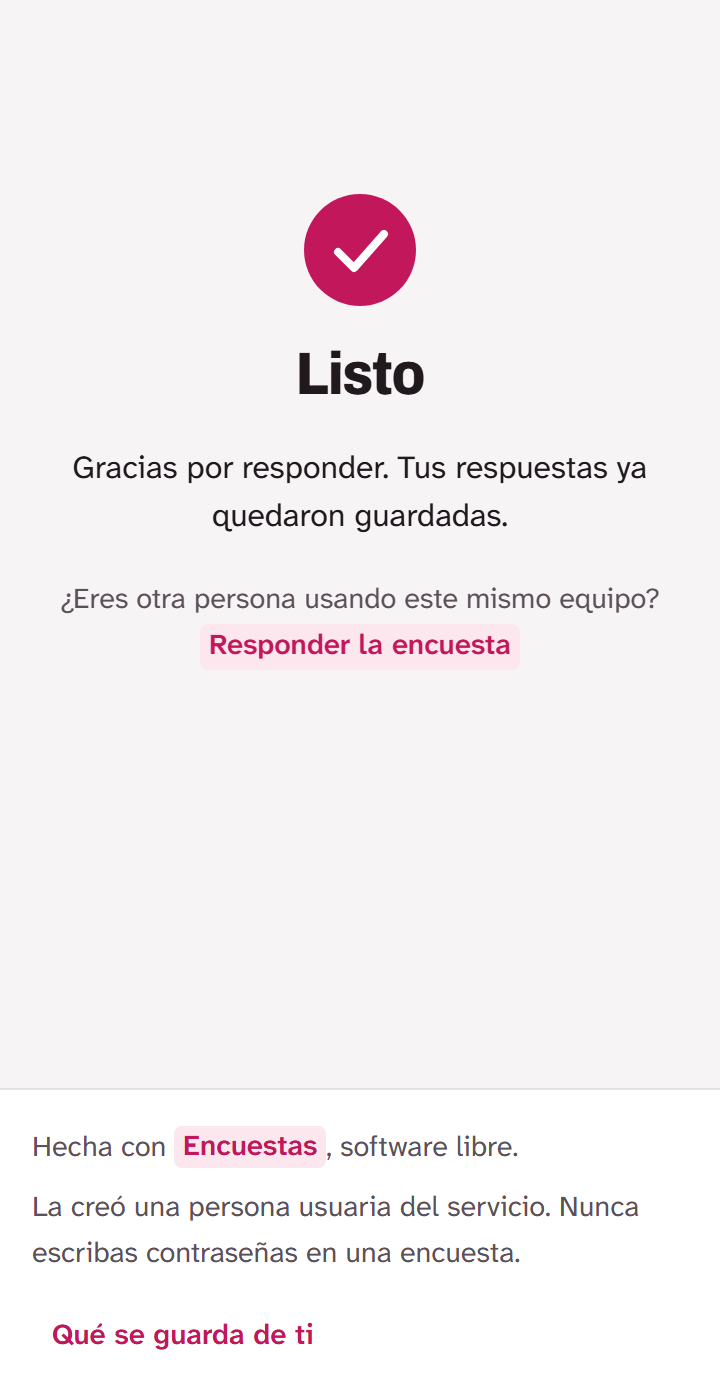
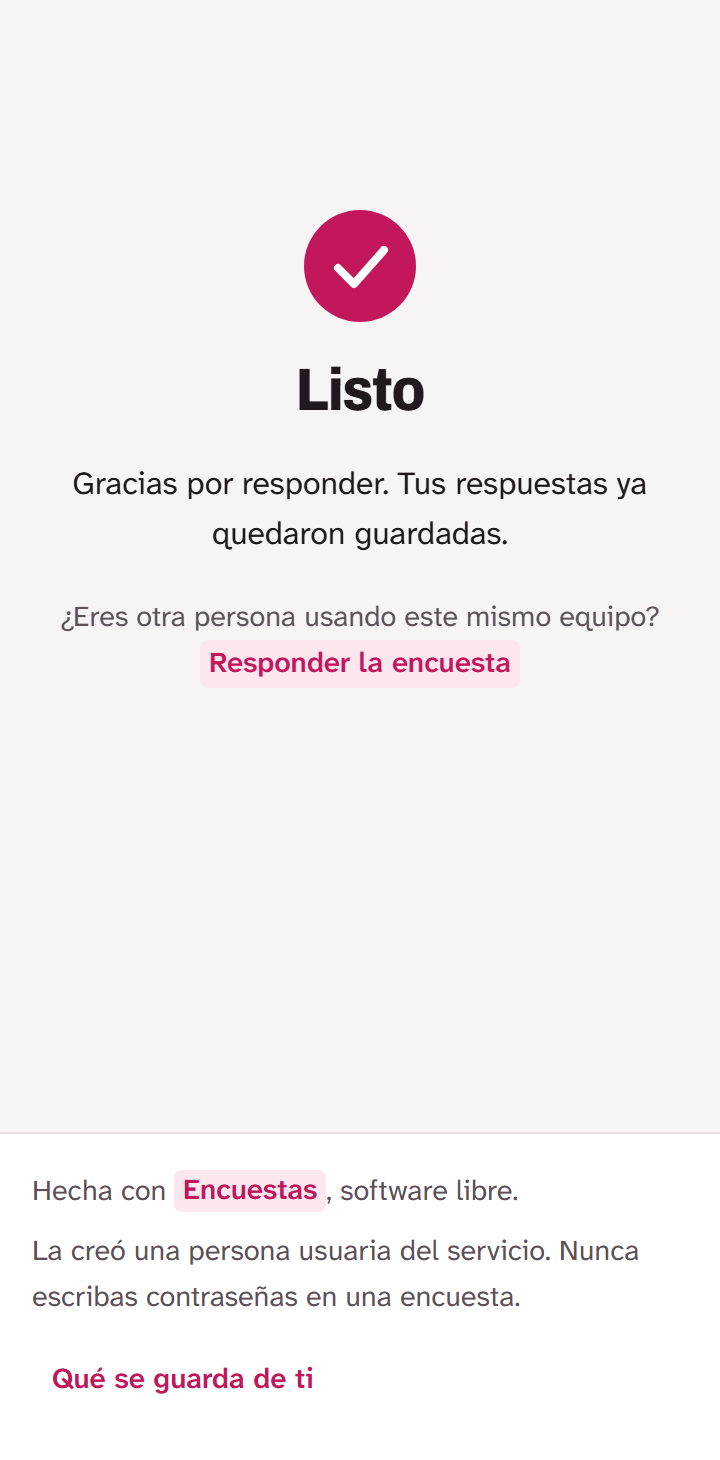
style(app): dibuja un solo marco de celular y vuelve a tomar las capturas

diff --git a/app/(sitio)/AuthForm.tsx b/app/(sitio)/AuthForm.tsx
@@ -5,6 +5,7 @@ import Link from "next/link";
 import { useActionState } from "react";
 import { login, register, type FormState } from "@/app/actions";
 import matriz from "@/app/capturas/movil-pagina2.png";
+import { Celular } from "./Celular";
 
 export function AuthForm({ mode }: { mode: "login" | "register" }) {
   const isRegister = mode === "register";
@@ -58,9 +59,9 @@ export function AuthForm({ mode }: { mode: "login" | "register" }) {
         <p>
           <strong>Haz tu encuesta</strong> y quédate con tus datos.
         </p>
-        <div className="marco celular">
+        <Celular>
           <Image src={matriz} alt="Una pregunta de matriz respondida desde un celular: cada frase con sus cinco niveles en una fila." sizes="230px" unoptimized />
-        </div>
+        </Celular>
       </aside>
     </div>
   );

diff --git a/app/(sitio)/Celular.tsx b/app/(sitio)/Celular.tsx
@@ -1,0 +1,8 @@
+/** Marco de celular dibujado con CSS: isla, botones laterales y pantalla. Lo de dentro es una captura real o un control real de la app. */
+export function Celular({ children }: { children: React.ReactNode }) {
+  return (
+    <div className="marco celular">
+      <div className="pantalla">{children}</div>
+    </div>
+  );
+}
